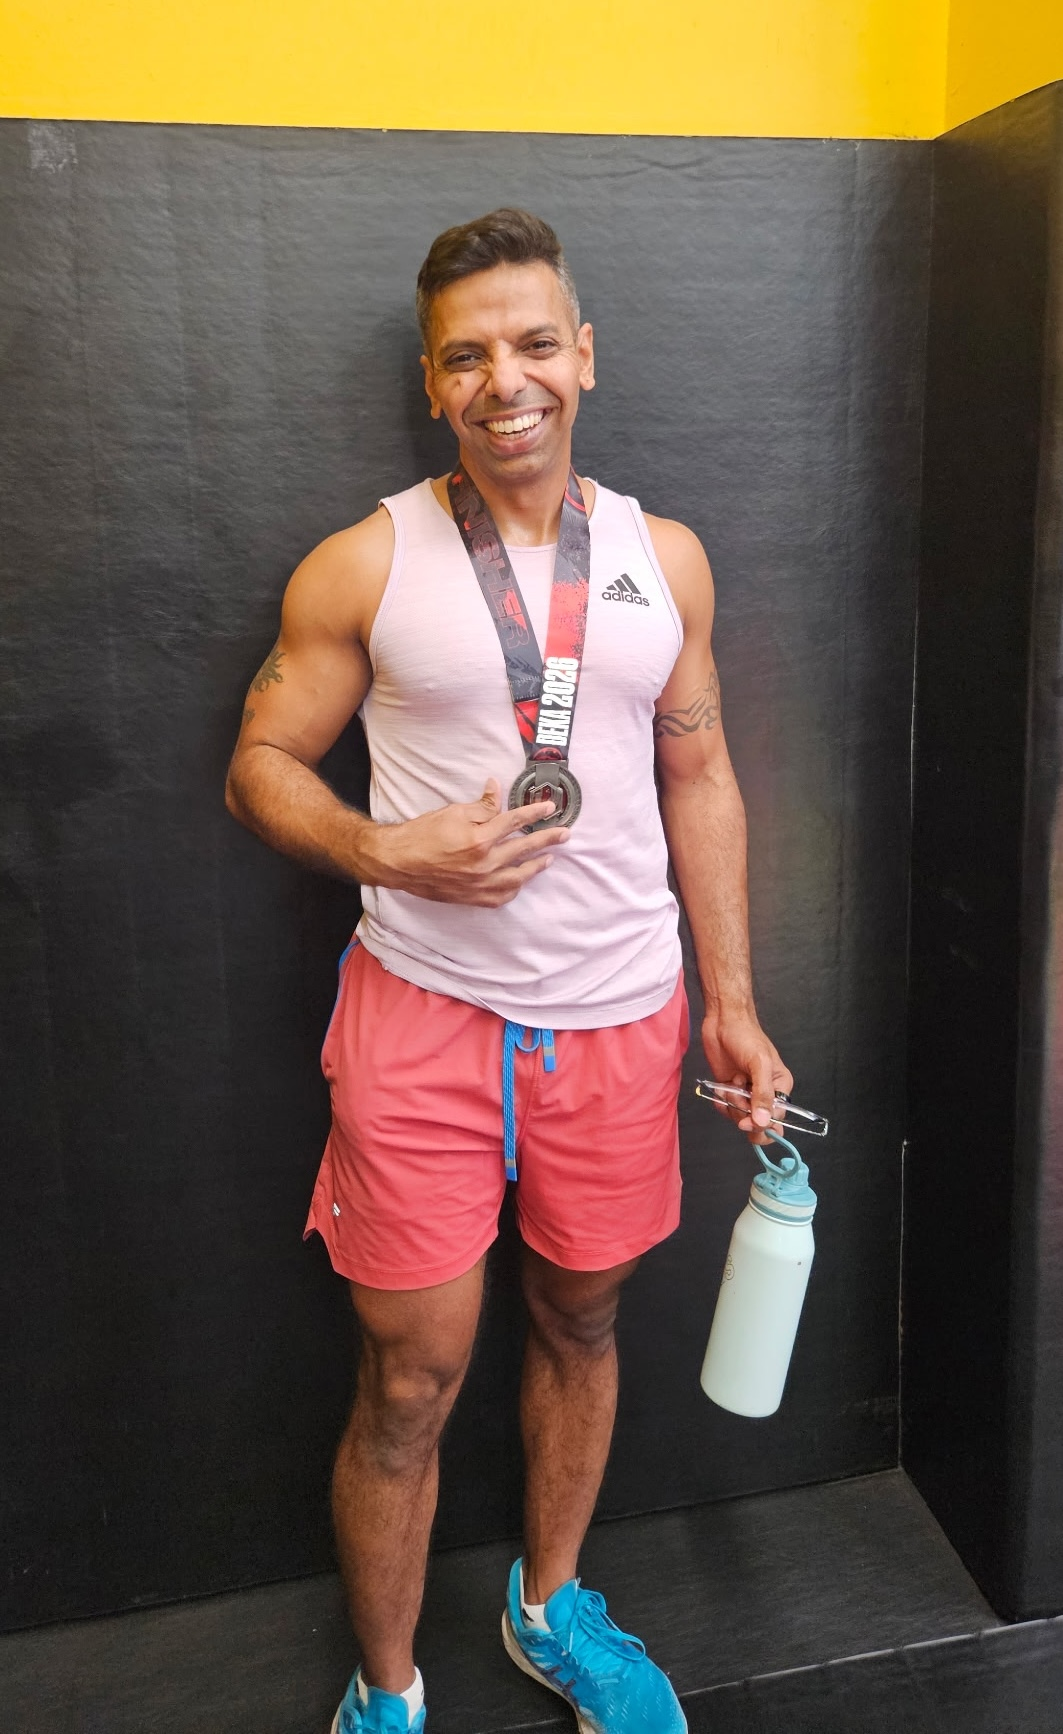
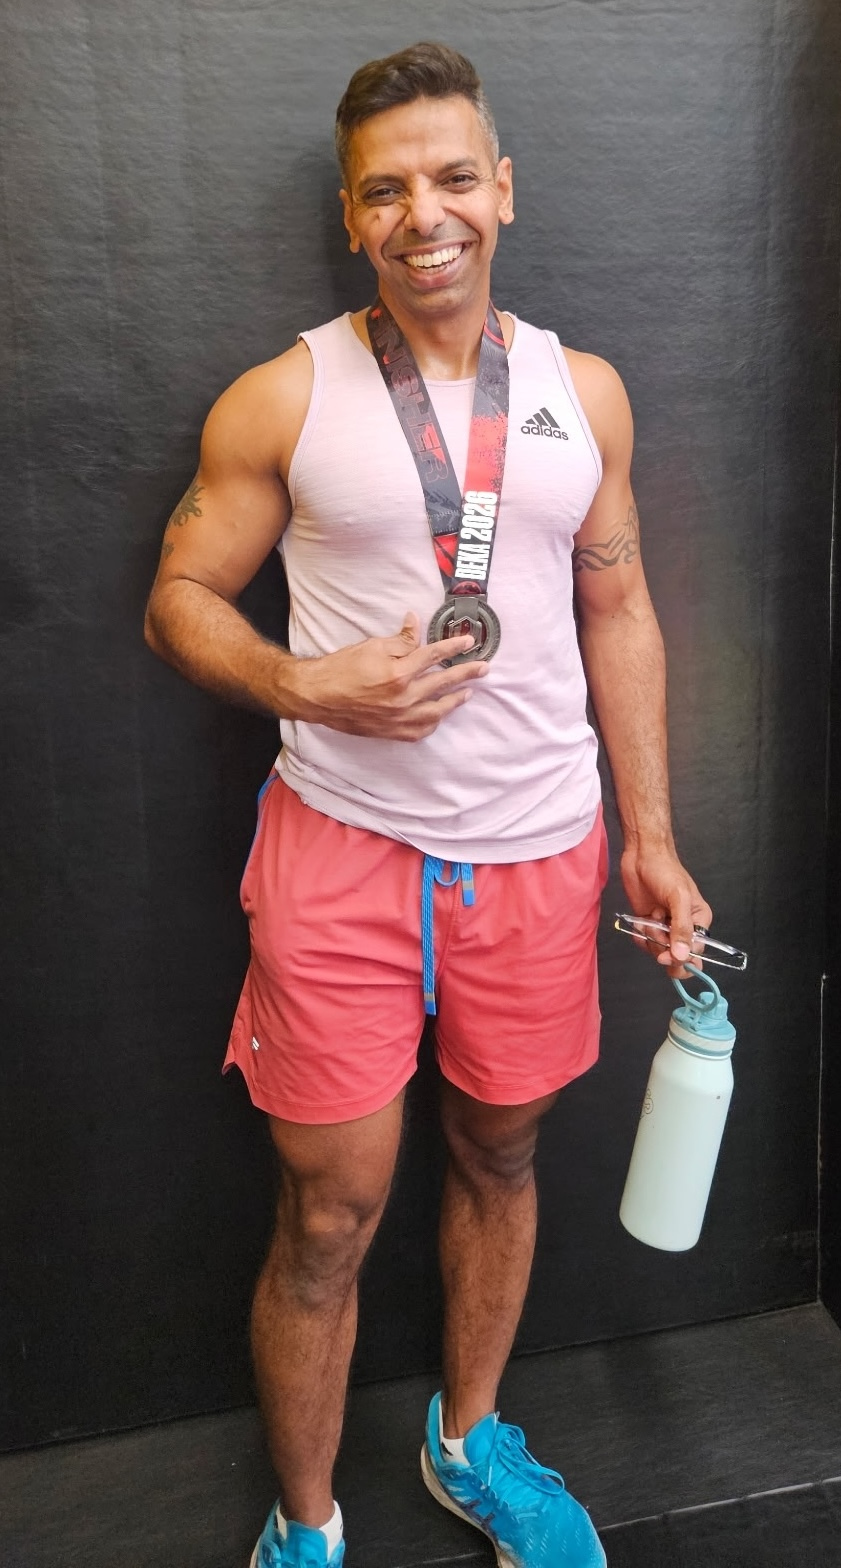
Add Deka Mile race photo

diff --git a/_projects/hybrid_athlete.md b/_projects/hybrid_athlete.md
@@ -363,7 +363,10 @@ permalink: /projects/hybrid_athlete/
         <span class="ev-name">DEKA MILE</span>
         <span class="ev-date">May 9, 2026</span>
       </div>
-      <div class="ha-event-body" style="padding-top:1rem;">
+      <div class="ha-event-imgs">
+        <img src="{{ '/assets/img/blog/projects/hybrid_athelete/deka-mile/deka-mile.jpg' | relative_url }}" alt="Deka Mile 2026" loading="lazy">
+      </div>
+      <div class="ha-event-body">
         <div class="ha-venue">📍 APX Velocity — San Jose, CA</div>
         <div class="ha-stat-row">
           <div class="ha-stat"><div class="sl">Time</div><div class="sv">31:16</div></div>
